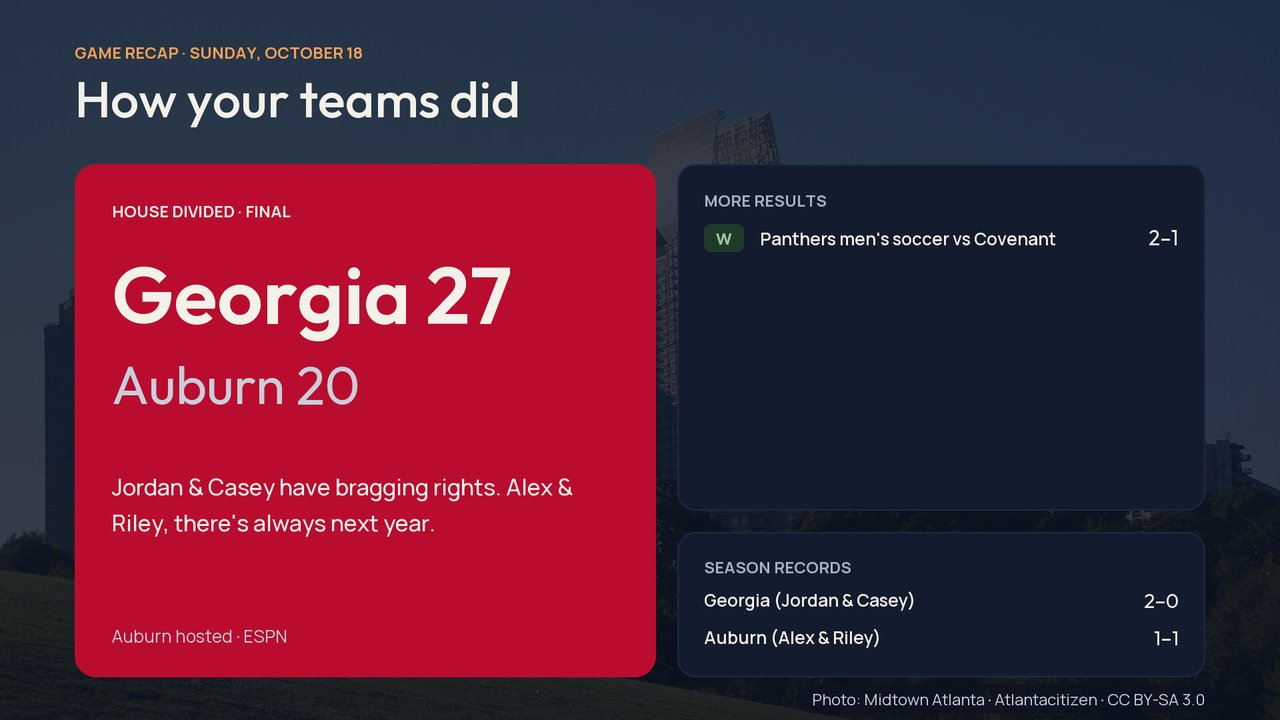
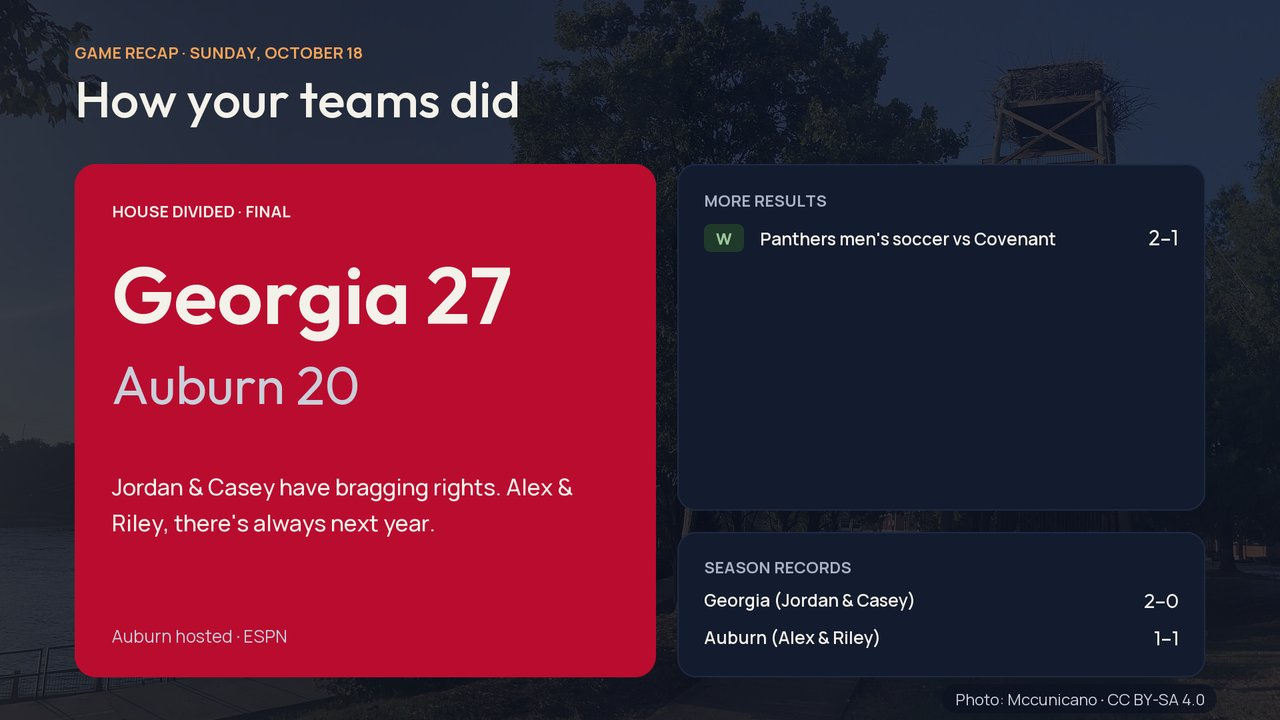
Daybreak 1.11.0: weekend outlook, hide this photo
- Weekend screen on Fridays and Saturdays: both days' forecast, sun
  times, calendar and games, the better day outside marked, lake level.
  All 36 wallpapers pass the contrast audit behind it (closes #71).
- OK menu "Hide this photo": the picks skip hidden ids, saved with the
  settings; Settings -> "Show hidden photos" restores them (closes #72).

diff --git a/daybreak/preview/render.py b/daybreak/preview/render.py
@@ -25,7 +25,7 @@ WALL = HERE.parent / "wallpapers" / "img"  # cachefs:/wp-<id>.jpg on the TV
 W, H = 1920, 1080
 DOCS = {("morning", "briefing"): "briefing", ("morning", "ambient"): "ambient", ("morning", "recap"): "recap",
         ("morning", "gameday"): "gameday", ("evening", "week"): "week", ("evening", "sky"): "sky",
-        ("evening", "tonight"): "tonight", ("morning", "lake"): "lake", ("warning", "radar"): "radar"}
+        ("evening", "tonight"): "tonight", ("morning", "lake"): "lake", ("morning", "weekend"): "weekend", ("warning", "radar"): "radar"}
 _fonts = {}
 _images = {}
 

diff --git a/daybreak/wallpapers/build.py b/daybreak/wallpapers/build.py
@@ -43,7 +43,7 @@ UA = {"User-Agent": "DaybreakWallpaperBuilder/1.0 (https://github.com/roberjo/tv
 API = "https://commons.wikimedia.org/w/api.php?"
 FREE = re.compile(r"^(CC0|Public domain|PD.*|CC BY(-SA)? \d\.\d)$")
 # Screens a photo may sit behind (preview/wallpapers.brs builds each one).
-SCREENS = ["ambient", "briefing", "season", "tonight", "week", "recap", "lake", "school", "board"]
+SCREENS = ["ambient", "briefing", "season", "tonight", "week", "weekend", "recap", "lake", "school", "board"]
 
 
 def get(url, tries=4):

diff --git a/docs/ARCHITECTURE.md b/docs/ARCHITECTURE.md
@@ -79,11 +79,12 @@ During a game (an event `in` progress, or one that should have started in the la
 ## Wallpapers
 - **Catalog:** `daybreak/wallpapers/catalog.json`, served from this repo (`place.wallpapers`). Each photo has an id, a file, a place, a credit, tags and `screens`: the screens where every label passed the contrast audit, recorded by `build.py --audit`.
 - **Fetching:** DataTask fetches the catalog daily (`normWallpapers` keeps only safe ids and `img/<id>.jpg` paths, at most 100 entries).
-- **Picks:** `wallpaperPicks(photos, day)` chooses a photo for each of the nine photo screens.
+- **Picks:** `wallpaperPicks(photos, day)` chooses a photo for each of the ten photo screens.
   - **Where photos may go:** only on screens where they passed the audit. Lake photos go on the Lake screen, and night photos (tag `night`) only behind Tonight, which prefers them.
+  - **Hidden photos:** photos the family hid from the OK menu ("Hide this photo", saved in the registry as `hiddenPhotos`) are never picked. The screen goes to its plain fill at once, and the next refresh picks a replacement. Settings → "Show hidden photos" brings them all back.
   - **Seasons:** photos suited to the season (`seasons` in `sources.json`) come first.
   - **No repeats:** a screen never shows yesterday's photo, and that needs no history. Even days pick from the even positions of a screen's candidate list and odd days from the odd ones. A year's simulation with the real catalog: one repeat (at a season change), no day with two screens sharing a photo, and all 36 photos used.
-- **Downloads:** `syncWallpapers()` downloads today's and tomorrow's picks into `cachefs:/wp-<id>.jpg`, three per refresh. A download goes to a `.part` file and is kept only if it arrived whole (HTTP 200, over 20 KB; stalled transfers are dropped). Every other `wp-*` file is deleted, so the TV holds at most about 18 photos (about 7 MB).
+- **Downloads:** `syncWallpapers()` downloads today's and tomorrow's picks into `cachefs:/wp-<id>.jpg`, three per refresh. A download goes to a `.part` file and is kept only if it arrived whole (HTTP 200, over 20 KB; stalled transfers are dropped). Every other `wp-*` file is deleted, so the TV holds at most about 20 photos (about 8 MB).
 - **Screens:** `derive` puts only downloaded picks in `d.wallpapers`. `uiWallpaper` draws the photo under the screen's own fill color at `wallpaperDim()`: 0.55 on Ambient, 0.70 on Season, 0.78 on Briefing, 0.82 on card screens.
 - **Credit:** `buildScreen` adds the credit at bottom right, on a translucent pill so it reads on any photo. The scene hides it while its status line uses the corner.
 - **Fallbacks:** with no download yet, screens use the packaged pre-dimmed photos or plain fills. Low-memory mode uses plain fills.

diff --git a/CHANGELOG.md b/CHANGELOG.md
@@ -4,6 +4,12 @@ All notable changes to Daybreak. The format follows [Keep a Changelog](https://k
 
 ## [Unreleased]
 
+## [1.11.0] - 2026-10-26
+
+### Added
+- **Weekend outlook** (#71): on Fridays and Saturdays, Saturday and Sunday side by side, each with the forecast, sunrise and sunset, and the day's calendar and games. The better day to be outside is marked, scored on rain chance, distance from 72° and wind over 15 mph. When the days are close it says so, and it calls a wet weekend when rain is 60% or more both days. West Point Lake's level is shown against full summer pool. All 36 wallpapers passed the contrast audit behind it.
+- **Hide this photo** (#72): on a screen with a wallpaper, the OK menu offers "Hide this photo". The photo leaves the screen at once and is never picked again, and the next refresh downloads a replacement. Settings → "Show hidden photos" brings them all back. Hidden photos are kept in the registry with the other settings.
+
 ## [1.10.0] - 2026-10-25
 
 ### Added
@@ -227,7 +233,8 @@ Foundations: CI, deterministic tests, quick fixes and a safe deploy script.
 
 The first standalone release: 12 native screens, every feed fetched on the TV, rule-based heads-up insights, the family board through calendar events, and app and screensaver modes.
 
-[Unreleased]: https://github.com/roberjo/tv-check/compare/v1.10.0...HEAD
+[Unreleased]: https://github.com/roberjo/tv-check/compare/v1.11.0...HEAD
+[1.11.0]: https://github.com/roberjo/tv-check/compare/v1.10.0...v1.11.0
 [1.10.0]: https://github.com/roberjo/tv-check/compare/v1.9.0...v1.10.0
 [1.9.0]: https://github.com/roberjo/tv-check/compare/v1.8.0...v1.9.0
 [1.8.0]: https://github.com/roberjo/tv-check/compare/v1.7.2...v1.8.0

diff --git a/docs/DEVELOPMENT.md b/docs/DEVELOPMENT.md
@@ -32,7 +32,7 @@ Each runner exits non-zero on a failed check, a BrightScript runtime error, or a
 1. Change the builders in `channel/components/screens.brs`, using the grid (`gx`, `gw`) and the type scale in `ui.brs`.
 2. Run `daybreak/preview/preview.sh daybreak/out/preview --audit` and look at the PNGs. The audit must report 0 issues.
 3. If a screen in the README changed, refresh the screenshots with `--docs docs/images`.
-4. If the change touches a photo screen (Ambient, Briefing, Season, Tonight, Week, Recap, Lake, School, Board), re-audit the wallpapers: `.venv/bin/python daybreak/wallpapers/build.py --audit-only`. It rebuilds each screen behind each photo (about a minute) and rewrites which screens each photo may appear on in `catalog.json`; commit the result.
+4. If the change touches a photo screen (Ambient, Briefing, Season, Tonight, Week, Weekend, Recap, Lake, School, Board), re-audit the wallpapers: `.venv/bin/python daybreak/wallpapers/build.py --audit-only`. It rebuilds each screen behind each photo (about a minute) and rewrites which screens each photo may appear on in `catalog.json`; commit the result.
 
 ## Wallpapers
 - **Add a photo:** add it to `daybreak/wallpapers/sources.json` (the Commons file name, the place, tags, and a crop `focus` from 0 at the top to 1 at the bottom), then run `.venv/bin/python daybreak/wallpapers/build.py --audit`. The script:

diff --git a/DAYBREAK.md b/DAYBREAK.md
@@ -17,6 +17,7 @@ Daybreak is a family dashboard and screensaver for a Roku TV. It's built for a h
 | Ambient | Midday; first in the screensaver | Big clock, weather, sun arc, "next up" chip, Callaway Gardens photo |
 | Tonight | After 5 PM | Tonight's game or a quiet night, weather, curbside, evening apps |
 | Week ("Sunday Reset") | Weekend evenings | 7-day forecast, calendar, games, curbside, heads-up |
+| Weekend | Friday midday and evening, Saturday until 5 PM | Saturday and Sunday side by side: forecast, sunrise and sunset, calendar and games. The better day outside is marked (rain chance, distance from 72°, wind over 15 mph), and the lake level is shown |
 | Recap | Mornings or evenings after games | Finals (pro, SEC, LaGrange College), a house-divided hero card, records |
 | Game day | A tracked team plays within 6 hours, or is playing now | Team panels with a countdown, or the live score and period during the game. The rivalry pair splits the screen |
 | Radar | Rain likely within 2 hours, or any NWS warning | NOAA MRMS frames over a USGS base map, Troup County alerts |

diff --git a/README.md b/README.md
@@ -11,6 +11,7 @@ Built in one evening, pair-programming with [Claude Code](https://claude.com/cla
 | ![Morning briefing](docs/images/briefing.jpg) | ![Game recap](docs/images/recap.jpg) |
 | ![Week ahead](docs/images/week.jpg) | ![Live radar](docs/images/radar.jpg) |
 | ![Ambient screensaver](docs/images/ambient.jpg) | ![Tonight's sky](docs/images/sky.jpg) |
+| ![Weekend outlook](docs/images/weekend.jpg) | ![West Point Lake](docs/images/lake.jpg) |
 
 *Screenshots are rendered from the TV's own screen code (`daybreak/preview/`) with a fictional family (`config/family.example.json`), a synthetic calendar and synthetic feeds.*
 

diff --git a/daybreak/README.md b/daybreak/README.md
@@ -62,7 +62,7 @@ The install replaces any other dev app. Then choose **Settings → Theme → Scr
 |---|---|
 | Left / Right | Previous or next screen |
 | Play | Pause or resume the rotation |
-| OK | Menu: pause, go to a screen, settings, diagnostics |
+| OK | Menu: pause, go to a screen, hide this photo, settings, diagnostics |
 | * (Options) | Diagnostics; Left/Right switch to live graphs |
 | Back | Close the menu or diagnostics, or exit |
 
